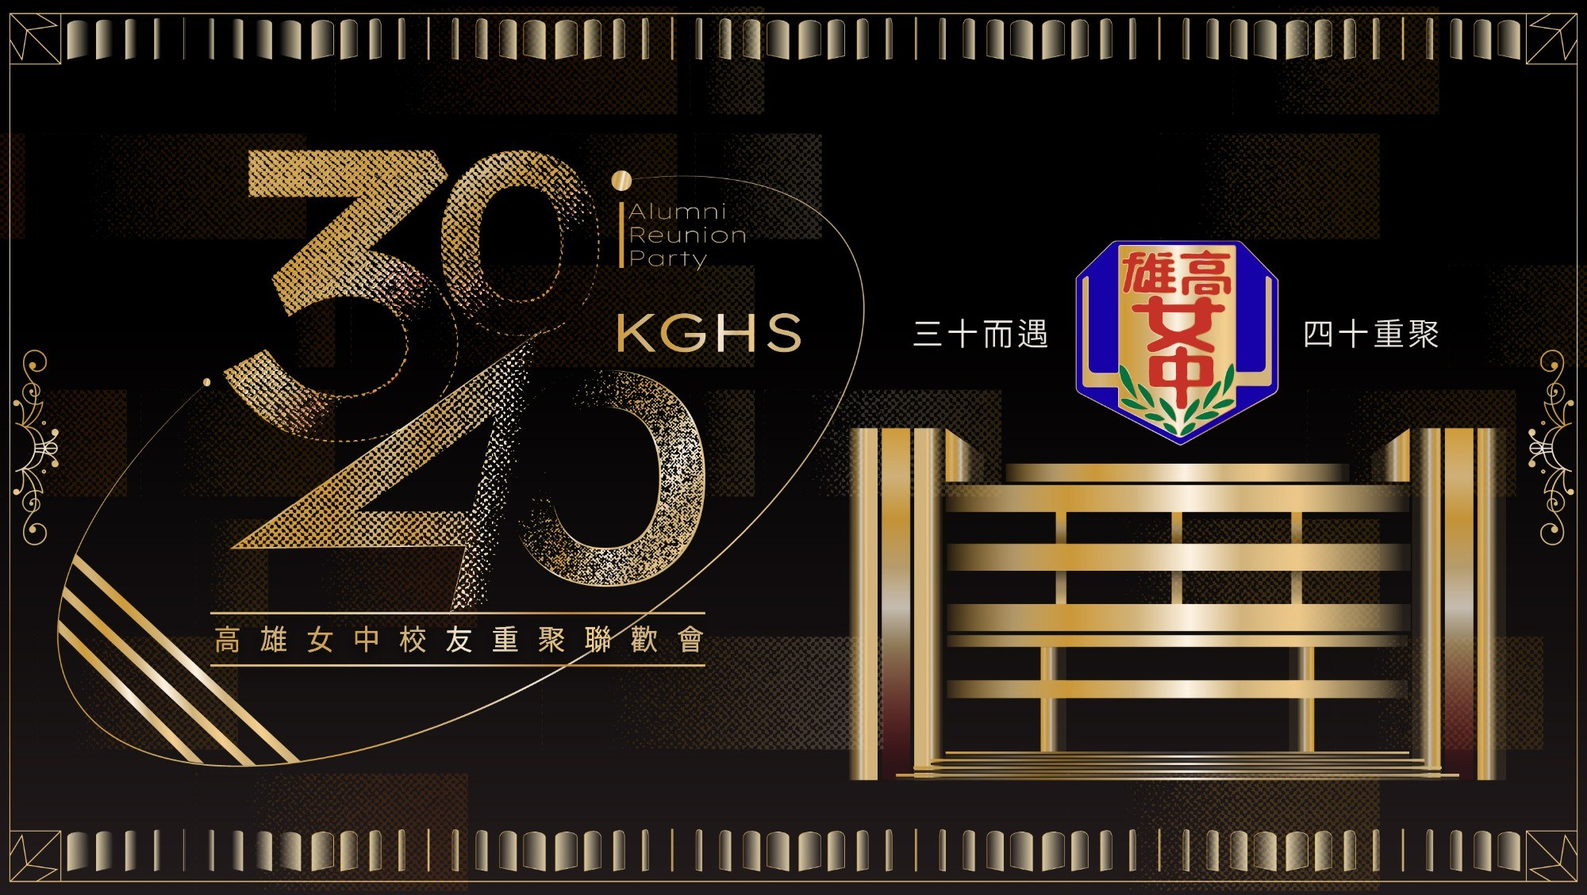
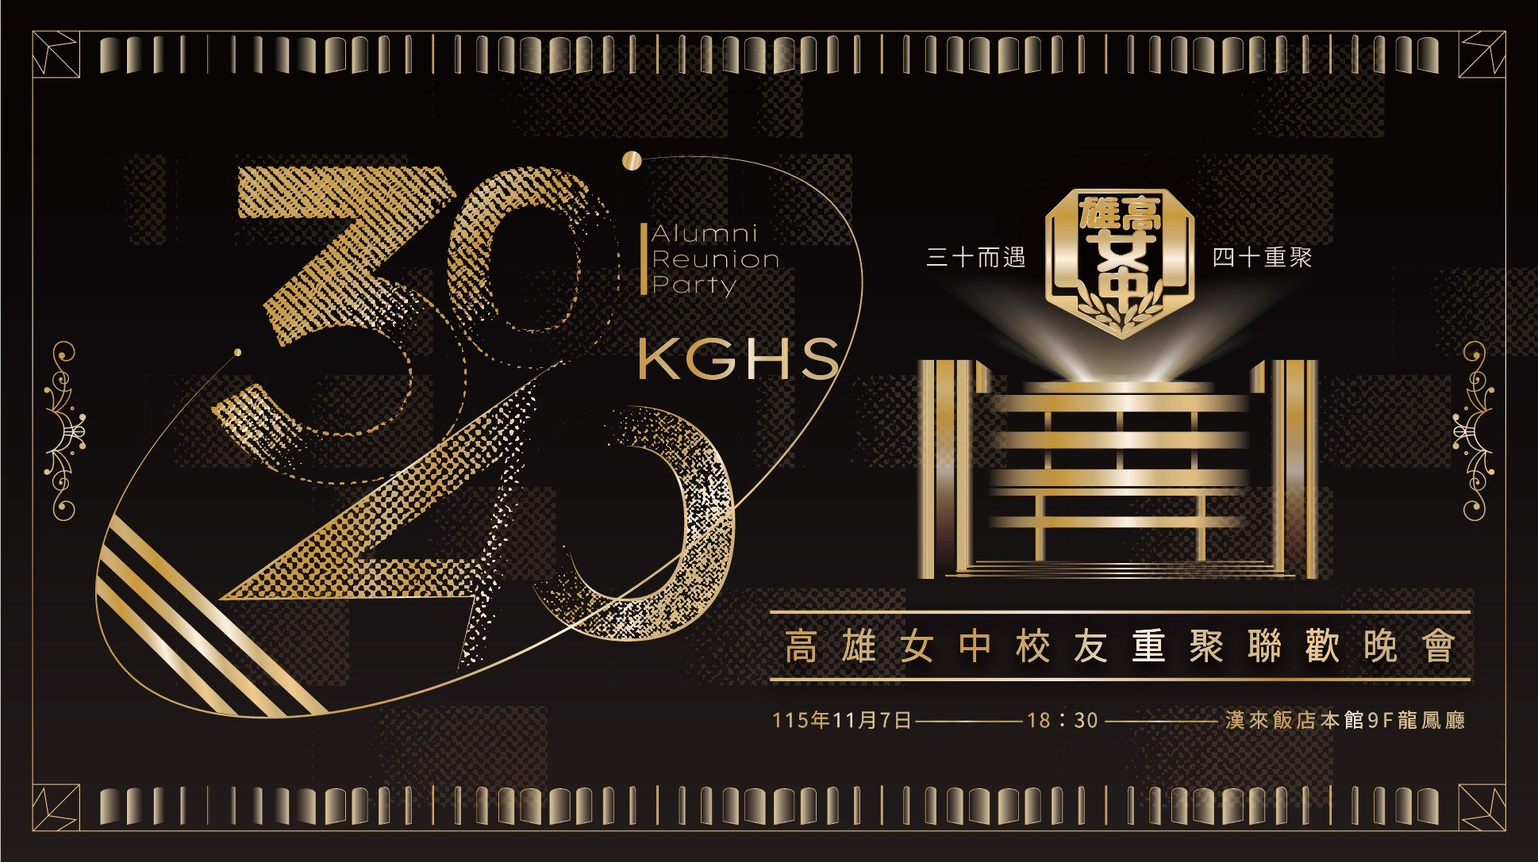
封面改為「2026高雄女中-星光晚宴回憶錄」；入場券改為晚宴邀請卡風格
- 入場券仿邀請卡：黑金琴鍵飾帶、校徽與「三十而遇／四十重聚」、3040 KGHS、
  高雄女中校友重聚聯歡晚會、115年11月7日 18:30 漢來飯店本館 9F 龍鳳廳
- 封面加校徽、副標「三十而遇　四十重聚」，五星獎列為獎項標題
- 開場與結尾劇情帶入三十而遇、四十重聚
- 投影牆主視覺換成含日期地點的新版

Claude-Session: https://claude.ai/code/session_01VouWjXPYsq8nRvDbBhYCw6

diff --git a/public/index.html b/public/index.html
@@ -3,10 +3,10 @@
 <head>
 <meta charset="utf-8">
 <meta name="viewport" content="width=device-width, initial-scale=1, viewport-fit=cover">
-<title>雄女祕境集章</title>
+<title>2026高雄女中-星光晚宴回憶錄</title>
 <link rel="preconnect" href="https://fonts.googleapis.com">
 <link rel="preconnect" href="https://fonts.gstatic.com" crossorigin>
-<link href="https://fonts.googleapis.com/css2?family=Noto+Serif+TC:wght@600;900&family=Noto+Sans+TC:wght@400;500;700&family=Gaegu:wght@400;700&family=Huninn&display=swap" rel="stylesheet">
+<link href="https://fonts.googleapis.com/css2?family=Noto+Serif+TC:wght@600;900&family=Noto+Sans+TC:wght@400;500;700&family=Gaegu:wght@400;700&family=Huninn&family=Josefin+Sans:wght@300;400&family=Great+Vibes&display=swap" rel="stylesheet">
 <style>
 :root{
   /* 頒獎典禮：節目單象牙紙、絲絨紅、香檳金、劇院黑 */
@@ -459,6 +459,8 @@ body.storymode .sound{background:#2A231E;color:#F3EADB;border-color:#3A302A}
 #cover.pre .cv-content{opacity:0;transform:scale(.96);transition:none}
 .cv-content{transition-delay:.5s}
 #cover.opening .cv-content{opacity:0;transform:scale(1.08);transition-delay:0s}
+/* 封面校徽 */
+.cv-logo{width:clamp(56px,16vw,78px);height:auto;filter:drop-shadow(0 4px 14px rgba(233,207,143,.35))}
 .cv-year{font-family:var(--serif);font-weight:600;font-size:.98rem;letter-spacing:.42em;color:#D9BD7E;margin:0;padding-left:.42em}
 .cv-crest{position:relative;width:min(92vw,380px);padding:4px 0}
 .cv-laurel{position:absolute;top:50%;width:clamp(34px,11vw,54px);height:auto;transform:translateY(-50%);opacity:.95}
@@ -471,6 +473,7 @@ body.storymode .sound{background:#2A231E;color:#F3EADB;border-color:#3A302A}
 .cv-rule{width:120px;height:1px;background:linear-gradient(90deg,transparent,#D9BD7E,transparent)}
 .cv-awards{margin:0;font-family:var(--serif);font-weight:600;font-size:.95rem;line-height:1.9;color:#C9B48A;max-width:330px}
 .cv-awards span{white-space:nowrap}
+.cv-aw-h{display:block;font-weight:900;color:#E9CF8F;letter-spacing:.5em;padding-left:.5em;margin-bottom:2px}
 .cv-date{margin:0;font-size:.9rem;color:#A39279;letter-spacing:.06em}
 .cv-enter{position:relative;margin-top:min(1.6vh,12px);border:0;cursor:pointer;font-family:var(--serif);font-weight:900;font-size:1.45rem;letter-spacing:.4em;padding:18px 36px 18px calc(36px + .4em);color:#2A1E10;
   background:linear-gradient(180deg,#F6E3AE,#D2AC60 55%,#A9843E);border-radius:6px;
@@ -546,22 +549,22 @@ body.busy{overflow:hidden}
       <div class="cv-curtain l"></div><div class="cv-curtain r"></div>
       <div class="cv-valance"></div><div class="cv-fringe"></div>
       <div class="cv-content">
-        <p class="cv-year" id="cvYear">2026 雄女校友回娘家</p>
-        <div class="cv-crest"><svg class="cv-laurel l" viewBox="0 0 60 140" aria-hidden="true"><g fill="none" stroke="#C9A158" stroke-width="2.2" stroke-linecap="round"><path d="M46 136C18 112 10 70 30 8"/></g><g fill="#C9A158"><ellipse cx="30" cy="16" rx="4.2" ry="10" transform="rotate(10 30 16)"/><ellipse cx="22" cy="30" rx="4.2" ry="10" transform="rotate(-30 22 30)"/><ellipse cx="36" cy="32" rx="4.2" ry="10" transform="rotate(40 36 32)"/><ellipse cx="17" cy="48" rx="4.2" ry="10" transform="rotate(-38 17 48)"/><ellipse cx="31" cy="52" rx="4.2" ry="10" transform="rotate(38 31 52)"/><ellipse cx="15" cy="68" rx="4.2" ry="10" transform="rotate(-42 15 68)"/><ellipse cx="29" cy="72" rx="4.2" ry="10" transform="rotate(34 29 72)"/><ellipse cx="17" cy="88" rx="4.2" ry="10" transform="rotate(-46 17 88)"/><ellipse cx="30" cy="92" rx="4.2" ry="10" transform="rotate(30 30 92)"/><ellipse cx="22" cy="108" rx="4.2" ry="10" transform="rotate(-52 22 108)"/><ellipse cx="35" cy="110" rx="4.2" ry="10" transform="rotate(24 35 110)"/><ellipse cx="31" cy="124" rx="4.2" ry="10" transform="rotate(-60 31 124)"/></g></svg><svg class="cv-laurel r" viewBox="0 0 60 140" aria-hidden="true"><g fill="none" stroke="#C9A158" stroke-width="2.2" stroke-linecap="round"><path d="M46 136C18 112 10 70 30 8"/></g><g fill="#C9A158"><ellipse cx="30" cy="16" rx="4.2" ry="10" transform="rotate(10 30 16)"/><ellipse cx="22" cy="30" rx="4.2" ry="10" transform="rotate(-30 22 30)"/><ellipse cx="36" cy="32" rx="4.2" ry="10" transform="rotate(40 36 32)"/><ellipse cx="17" cy="48" rx="4.2" ry="10" transform="rotate(-38 17 48)"/><ellipse cx="31" cy="52" rx="4.2" ry="10" transform="rotate(38 31 52)"/><ellipse cx="15" cy="68" rx="4.2" ry="10" transform="rotate(-42 15 68)"/><ellipse cx="29" cy="72" rx="4.2" ry="10" transform="rotate(34 29 72)"/><ellipse cx="17" cy="88" rx="4.2" ry="10" transform="rotate(-46 17 88)"/><ellipse cx="30" cy="92" rx="4.2" ry="10" transform="rotate(30 30 92)"/><ellipse cx="22" cy="108" rx="4.2" ry="10" transform="rotate(-52 22 108)"/><ellipse cx="35" cy="110" rx="4.2" ry="10" transform="rotate(24 35 110)"/><ellipse cx="31" cy="124" rx="4.2" ry="10" transform="rotate(-60 31 124)"/></g></svg><h1 class="cv-title">雄女<br>祕境集章</h1></div>
-        <p class="cv-sub">五星獎頒獎典禮</p>
+        <img class="cv-logo" src="assets/brand/logo-gold.png" alt="高雄女中"><p class="cv-year" id="cvYear">2026 高雄女中</p>
+        <div class="cv-crest"><svg class="cv-laurel l" viewBox="0 0 60 140" aria-hidden="true"><g fill="none" stroke="#C9A158" stroke-width="2.2" stroke-linecap="round"><path d="M46 136C18 112 10 70 30 8"/></g><g fill="#C9A158"><ellipse cx="30" cy="16" rx="4.2" ry="10" transform="rotate(10 30 16)"/><ellipse cx="22" cy="30" rx="4.2" ry="10" transform="rotate(-30 22 30)"/><ellipse cx="36" cy="32" rx="4.2" ry="10" transform="rotate(40 36 32)"/><ellipse cx="17" cy="48" rx="4.2" ry="10" transform="rotate(-38 17 48)"/><ellipse cx="31" cy="52" rx="4.2" ry="10" transform="rotate(38 31 52)"/><ellipse cx="15" cy="68" rx="4.2" ry="10" transform="rotate(-42 15 68)"/><ellipse cx="29" cy="72" rx="4.2" ry="10" transform="rotate(34 29 72)"/><ellipse cx="17" cy="88" rx="4.2" ry="10" transform="rotate(-46 17 88)"/><ellipse cx="30" cy="92" rx="4.2" ry="10" transform="rotate(30 30 92)"/><ellipse cx="22" cy="108" rx="4.2" ry="10" transform="rotate(-52 22 108)"/><ellipse cx="35" cy="110" rx="4.2" ry="10" transform="rotate(24 35 110)"/><ellipse cx="31" cy="124" rx="4.2" ry="10" transform="rotate(-60 31 124)"/></g></svg><svg class="cv-laurel r" viewBox="0 0 60 140" aria-hidden="true"><g fill="none" stroke="#C9A158" stroke-width="2.2" stroke-linecap="round"><path d="M46 136C18 112 10 70 30 8"/></g><g fill="#C9A158"><ellipse cx="30" cy="16" rx="4.2" ry="10" transform="rotate(10 30 16)"/><ellipse cx="22" cy="30" rx="4.2" ry="10" transform="rotate(-30 22 30)"/><ellipse cx="36" cy="32" rx="4.2" ry="10" transform="rotate(40 36 32)"/><ellipse cx="17" cy="48" rx="4.2" ry="10" transform="rotate(-38 17 48)"/><ellipse cx="31" cy="52" rx="4.2" ry="10" transform="rotate(38 31 52)"/><ellipse cx="15" cy="68" rx="4.2" ry="10" transform="rotate(-42 15 68)"/><ellipse cx="29" cy="72" rx="4.2" ry="10" transform="rotate(34 29 72)"/><ellipse cx="17" cy="88" rx="4.2" ry="10" transform="rotate(-46 17 88)"/><ellipse cx="30" cy="92" rx="4.2" ry="10" transform="rotate(30 30 92)"/><ellipse cx="22" cy="108" rx="4.2" ry="10" transform="rotate(-52 22 108)"/><ellipse cx="35" cy="110" rx="4.2" ry="10" transform="rotate(24 35 110)"/><ellipse cx="31" cy="124" rx="4.2" ry="10" transform="rotate(-60 31 124)"/></g></svg><h1 class="cv-title">星光晚宴<br>回憶錄</h1></div>
+        <p class="cv-sub">三十而遇　四十重聚</p>
         <div class="cv-rule"></div>
         <p class="cv-awards" id="cvAwards"></p>
         <p class="cv-date" id="cvDate"></p>
         <button class="cv-enter" data-act="enter">入場</button>
-        <p class="cv-hint">開啟聲音，典禮更有臨場感</p>
+        <p class="cv-hint">開啟聲音，星光晚宴更有臨場感</p>
       </div>
     </div>
   </section>
 
   <section id="join" class="view" hidden>
     <div class="cover">
-      <p class="hello">2026 雄女校友回娘家</p>
-      <h1>雄女<br>祕境集章</h1>
+      <p class="hello">2026 高雄女中</p>
+      <h1>星光晚宴<br>回憶錄</h1>
       <p class="lede">今晚，妳是「五星獎」的入圍女星。五顆星藏在校園五個角落，找到它、拍一張照、留一句得獎感言，就摘下一顆星。摘齊五星，就能領到典禮入場券。</p>
       <div class="joincard">
         <label class="field"><span>怎麼稱呼妳？</span><input type="text" id="jName" maxlength="12" autocomplete="nickname" placeholder="例如：小美"></label>
@@ -589,7 +592,7 @@ body.busy{overflow:hidden}
 
 
   <section id="invite" class="view" hidden>
-    <div class="bar"><button class="btn soft small" data-act="home">返回</button><h2>典禮入場券</h2></div>
+    <div class="bar"><button class="btn soft small" data-act="home">返回</button><h2>晚宴入場券</h2></div>
     <img id="inviteImg" alt="校友會頒獎典禮入場券">
     <p class="tiny center">用手指長按圖片，就可以存到手機相簿。</p>
   </section>
@@ -782,7 +785,7 @@ document.querySelectorAll('[data-ic]').forEach(el=>el.innerHTML=ic(el.dataset.ic
 
 /* ===================== 活動設定（之後改這裡就好） ===================== */
 const CONFIG = {
-  eventName: '雄女校友回娘家',
+  eventName: '高雄女中',
   // award 是這一站頒的獎項名稱（會出現在提名卡、獎章、相框底部和入場券）
   // 提示卡：riddle 是正面的謎題，hint 是翻到背面的提示；name 是找到之後才顯示的地點名稱；id 與 key 會寫進現場 QR Code 網址
   // presets 是「不想拍照」時可以選的照片（放在 assets/presets 資料夾）
@@ -801,7 +804,7 @@ const CONFIG = {
   // 開場與結尾劇情：一個 { } 是一頁；icon 用貼紙代號（trophy、reel、ticket、filmcam、gstar、rose、bell、camera…）；{name} 會換成玩家的稱呼
   story: {
     intro: [
-      { icon:'reel', text:'紅毯上閃光燈此起彼落，\n今晚的主角，\n是剛走進校門的妳。' },
+      { icon:'reel', text:'三十而遇，四十重聚。\n紅毯上閃光燈此起彼落，\n今晚的主角，是走進校門的妳。' },
       { icon:'mic', text:'記者：「{name}，歡迎回到雄女！\n聽說妳是今晚\n「五星獎」的入圍女星？」' },
       { icon:'filmcam', text:'「離開校園這麼多年，\n還記得當年最常待的地方嗎？\n校門口、圖書館、體育館……」' },
       { icon:'camera', text:'「今晚不用多說，\n請用照片告訴我們：\n回到那個角落，拍下現在的妳。」' },
@@ -813,7 +816,7 @@ const CONFIG = {
       { icon:'gstar', text:'校門、榕園、圖書館、\n活動中心、體育館，\n五顆星都被妳摘下了。' },
       { icon:'mic', text:'記者：「最後一個問題，\n回到這裡，\n是什麼感覺？」' },
       { icon:'filmcam', text:'妳拍下的照片和得獎感言，\n今晚會在典禮現場放映。' },
-      { icon:'rose', text:'{name}，\n歡迎回家。' }
+      { icon:'rose', text:'{name}，\n三十而遇，四十重聚，\n歡迎回家。' }
     ],
     endingEnd: '打開入場券'
   },
@@ -875,9 +878,11 @@ const CONFIG = {
     { name:'簡單乾淨', frame:'milk', filter:'none', items:[] }
   ],
   invite: {
-    date: '2026 年 12 月 19 日（六）晚上 6:00',
-    place: '（聚餐餐廳名稱）',
-    address: '（餐廳地址）',
+    title: '高雄女中校友重聚聯歡晚會',
+    date: '115年11月7日（六）',
+    time: '18:30',
+    place: '漢來飯店本館 9F 龍鳳廳',
+    address: '高雄市前金區成功一路 266 號',
     note: ''   // 入場券最下方的小字（留空就不顯示）
   }
 };
@@ -903,7 +908,7 @@ function rr(c,x,y,w,h,r){ r=Math.min(r,w/2,h/2); c.beginPath(); c.moveTo(x+r,y);
 function heartPath(c,x,y,s){ c.beginPath(); c.moveTo(x,y+s*.9); c.bezierCurveTo(x-s*1.25,y+s*.05,x-s*.8,y-s*.95,x,y-s*.35); c.bezierCurveTo(x+s*.8,y-s*.95,x+s*1.25,y+s*.05,x,y+s*.9); c.closePath(); }
 const SF='"Noto Serif TC","Noto Serif CJK TC","Songti TC","PMingLiU",serif';
 const NF='"Noto Sans TC","PingFang TC","Microsoft JhengHei",sans-serif';
-const fontsReady=(document.fonts ? Promise.all([document.fonts.load(`400 60px "Huninn"`), document.fonts.load(`700 60px "Gaegu"`), document.fonts.load(`600 60px "Noto Serif TC"`), document.fonts.load(`900 60px "Noto Serif TC"`), document.fonts.load(`500 60px "Noto Sans TC"`)]).catch(()=>{}) : Promise.resolve());
+const fontsReady=(document.fonts ? Promise.all([document.fonts.load(`400 60px "Huninn"`), document.fonts.load(`700 60px "Gaegu"`), document.fonts.load(`600 60px "Noto Serif TC"`), document.fonts.load(`900 60px "Noto Serif TC"`), document.fonts.load(`500 60px "Noto Sans TC"`), document.fonts.load(`400 60px "Josefin Sans"`), document.fonts.load(`300 60px "Josefin Sans"`), document.fonts.load(`400 60px "Great Vibes"`)]).catch(()=>{}) : Promise.resolve());
 if(/FBAN|FBAV|Instagram/i.test(navigator.userAgent||'')) $('#inapp').hidden=false;
 
 /* 對話框 */
@@ -1204,10 +1209,9 @@ function boot(){
 /* ===================== 封面 ===================== */
 const COVER={ raf:null, parts:[], busy:false };
 function openCover(){
-  const yr=(CONFIG.invite.date.match(/\d{4}/)||[new Date().getFullYear()])[0];
-  $('#cvYear').textContent=`${yr} ${CONFIG.eventName}`;
-  $('#cvAwards').innerHTML=CONFIG.spots.filter(s=>s.award).map(s=>`<span>${esc(s.award)}</span>`).join('　');
-  $('#cvDate').textContent=CONFIG.invite.date ? `典禮　${CONFIG.invite.date}` : '';
+  $('#cvYear').textContent=`2026 ${CONFIG.eventName}`;
+  $('#cvAwards').innerHTML='<b class="cv-aw-h">五星獎</b>'+CONFIG.spots.filter(s=>s.award).map(s=>`<span>${esc(s.award)}</span>`).join('　');
+  $('#cvDate').textContent=CONFIG.invite.date ? `晚宴　${CONFIG.invite.date} ${CONFIG.invite.time||''}` : '';
   const cv=$('#cover'); cv.classList.remove('opening'); cv.classList.add('pre'); COVER.busy=false;
   show('cover');
   // 開場：布幕從中間拉開到兩側，再浮現標題
@@ -1278,7 +1282,7 @@ function renderHome(){
     <div class="stamps" aria-label="已摘 ${n} / ${spots.length} 顆星">${spots.map(s=>`<div class="slot ${S.done[s.id]?'on':''} ${justStamped===s.id?'thump':''}">${s.stamp}</div>`).join('')}</div>
     <section class="clues" aria-label="提示卡"><h2 class="clues-h">提示卡<span>點一下翻面</span></h2><div class="clue-row">${spots.map(clueHTML).join('')}</div></section>
     ${n===0 ? `<section class="howto"><h2>怎麼玩</h2><ol><li>翻開上面的提示卡，猜猜五個地點在校園哪裡</li><li>走到那裡，點下方的「${ic('scan')} 掃描 QR Code」，對準牆上的圖案</li><li>拍自己、拍合照，或當攝影師拍下懷念的風景，再留一句得獎感言，就摘下這一顆星</li></ol><button class="linkbtn" data-act="intro">再看一次開場故事</button></section>` : ''}
-    ${n===spots.length ? `<section class="unlock"><h2>五星獎全部到手</h2><p>典禮入場券準備好了，聚餐地點寫在裡面。</p><button class="btn white wide" data-act="invite">打開入場券</button><p class="center"><button class="linkbtn" style="color:#fff" data-act="ending">重看結尾故事</button></p></section>` : ''}
+    ${n===spots.length ? `<section class="unlock"><h2>五星獎全部到手</h2><p>星光晚宴的入場券準備好了，時間地點都寫在裡面。</p><button class="btn white wide" data-act="invite">打開入場券</button><p class="center"><button class="linkbtn" style="color:#fff" data-act="ending">重看結尾故事</button></p></section>` : ''}
     <section class="spots">${spots.map(spotHTML).join('')}</section>`;
   justStamped=null; syncBanner();
 }
@@ -2401,52 +2405,63 @@ function wrapText(c,text,x,y,maxW,lh){ let line=''; for(const ch of text){ const
 async function openInvite(){
   sfx.fanfare();
   show('invite'); $('#inviteImg').removeAttribute('src'); await fontsReady;
-  const p=S ? S.player : { name:'測試校友', cls:'45', code:'DEMO00' }, inv=CONFIG.invite, spots=CONFIG.spots;
+  const p=S ? S.player : { name:'大明星', cls:'45', code:'DEMO00' }, inv=CONFIG.invite, spots=CONFIG.spots;
   const c=document.createElement('canvas'), IW=1080, IH=1680; c.width=IW; c.height=IH;
-  const g=c.getContext('2d'), GOLD='#D9BD7E', GOLD2='#A9843E', IVORY='#F3EADB', MUTE='#9C8D78';
-  // 黑幕＋頂端聚光
-  g.fillStyle='#14100E'; g.fillRect(0,0,IW,IH);
-  const sp=g.createRadialGradient(IW/2,120,20,IW/2,260,760); sp.addColorStop(0,'rgba(217,189,126,.22)'); sp.addColorStop(1,'rgba(217,189,126,0)');
-  g.fillStyle=sp; g.fillRect(0,0,IW,IH);
-  // 金色雙框
-  g.strokeStyle=GOLD; g.lineWidth=4; g.strokeRect(40,40,IW-80,IH-80);
-  g.strokeStyle='rgba(217,189,126,.45)'; g.lineWidth=1.5; g.strokeRect(56,56,IW-112,IH-112);
+  const g=c.getContext('2d'), GOLD='#D9BD7E', IVORY='#F3EADB', DEC='"Josefin Sans",sans-serif', SCR='"Great Vibes",cursive';
+  const gold=(x0,x1)=>{ const gr=g.createLinearGradient(x0,0,x1,0); [[0,'#8C6A30'],[.25,'#F3DFA8'],[.45,'#B88A3E'],[.6,'#FFF0C8'],[.8,'#A9843E'],[1,'#E9CF8F']].forEach(([o,col])=>gr.addColorStop(o,col)); return gr; };
+  const spaced=(t,x,y,sp)=>{ const ws=[...t].map(ch=>g.measureText(ch).width), tot=ws.reduce((a,b)=>a+b,0)+sp*(ws.length-1); let cx=x-tot/2; g.textAlign='left'; [...t].forEach((ch,k)=>{ g.fillText(ch,cx,y); cx+=ws[k]+sp; }); g.textAlign='center'; return tot; };
+  // 黑底＋若隱若現的方塊紋理（仿主視覺）
+  g.fillStyle='#0C0A09'; g.fillRect(0,0,IW,IH);
+  let seed=7; const rnd=()=>(seed=(seed*9301+49297)%233280)/233280;
+  for(let k=0;k<46;k++){ g.fillStyle=`rgba(217,189,126,${(.025+rnd()*.05).toFixed(3)})`; g.fillRect(rnd()*IW-60, rnd()*IH, 80+rnd()*240, 40+rnd()*120); }
+  // 外框與四角
+  g.strokeStyle='rgba(217,189,126,.75)'; g.lineWidth=2; g.strokeRect(28,28,IW-56,IH-56);
+  [[28,28,1,1],[IW-28,28,-1,1],[28,IH-28,1,-1],[IW-28,IH-28,-1,-1]].forEach(([x,y,sx,sy])=>{ g.save(); g.translate(x,y); g.scale(sx,sy); g.strokeStyle=GOLD; g.lineWidth=1.5; g.strokeRect(0,0,64,64); g.beginPath(); g.moveTo(0,0); g.lineTo(64,64); g.moveTo(64,0); g.lineTo(18,46); g.moveTo(0,64); g.lineTo(46,18); g.stroke(); g.restore(); });
+  // 上下金色琴鍵飾帶
+  const bars=(y0,h)=>{ const pat=[14,11,8,4,1.6,0,1.6,4,8,11,14]; let x=104; while(x<IW-104){ for(const w of pat){ if(x>IW-104) break; if(w){ g.fillStyle=gold(x,x+w); rr(g,x,y0,w,h,Math.min(3,w/2)); g.fill(); x+=w+6; } else x+=18; } x+=14; } };
+  bars(46,62); bars(IH-108,62);
+  g.fillStyle='rgba(217,189,126,.6)'; g.fillRect(100,122,IW-200,1.5); g.fillRect(100,IH-123,IW-200,1.5);
+  // 校徽＋聚光
+  const halo=g.createRadialGradient(IW/2,250,10,IW/2,250,300); halo.addColorStop(0,'rgba(255,240,200,.28)'); halo.addColorStop(1,'rgba(255,240,200,0)'); g.fillStyle=halo; g.fillRect(0,100,IW,420);
+  const logo=await loadImg('assets/brand/logo-gold.png'); if(logo) g.drawImage(logo, IW/2-88, 158, 176, 178);
   g.textAlign='center'; g.textBaseline='alphabetic';
-  g.fillStyle=GOLD; g.font=`500 34px ${NF}`; g.fillText(`${new Date().getFullYear()}　${CONFIG.eventName}`, IW/2, 170);
-  g.fillStyle=IVORY; g.font=`900 150px ${SF}`; g.fillText('五星獎', IW/2, 345);
-  g.fillStyle=GOLD; g.font=`600 58px ${SF}`; g.fillText('入　場　券', IW/2, 435);
-  g.fillStyle=GOLD2; ornament(g,'diamond',IW/2-215,416,12,-1); ornament(g,'diamond',IW/2+215,416,12,1);
+  g.fillStyle=IVORY; g.font=`400 40px ${NF}`; spaced('三十而遇',IW/2-250,262,10); spaced('四十重聚',IW/2+250,262,10);
+  // 3040 KGHS
+  g.font=`400 92px ${DEC}`; g.fillStyle=gold(IW/2-260,IW/2+260); spaced('3040 KGHS',IW/2,452,14);
+  g.font=`400 60px ${SCR}`; g.fillStyle=gold(IW/2-240,IW/2+240); g.fillText('Alumni Reunion Party', IW/2, 522);
+  // 晚會名稱（上下金線）
+  g.fillStyle=gold(110,IW-110); g.fillRect(110,556,IW-220,2.5); g.fillRect(110,646,IW-220,2.5);
+  g.font=`600 50px ${SF}`; g.fillStyle=gold(150,IW-150); spaced(inv.title||'高雄女中校友重聚聯歡晚會',IW/2,620,16);
   // 致詞
-  g.fillStyle=IVORY; g.font=`600 52px ${SF}`; g.fillText(`敬邀　${p.name}`, IW/2, 540);
-  g.fillStyle='#C9BBA5'; g.font=`400 34px ${NF}`;
-  g.fillText('五顆星，妳全都摘下了。', IW/2, 600);
-  g.fillText('歡迎回家，今晚的典禮為妳留了位子。', IW/2, 650);
-  // 底片條：五顆星的照片
-  const fy=705, fh=300; g.fillStyle='#050403'; g.fillRect(56,fy,IW-112,fh);
-  g.fillStyle='#2E2620'; for(let x=74;x<IW-80;x+=44){ rr(g,x,fy+14,24,18,4); g.fill(); rr(g,x,fy+fh-32,24,18,4); g.fill(); }
+  g.fillStyle=IVORY; g.font=`600 54px ${SF}`; g.fillText(`敬邀　${p.name}`, IW/2, 742);
+  g.fillStyle='#C9BBA5'; g.font=`400 32px ${NF}`;
+  g.fillText('五星獎，妳全都摘下了。', IW/2, 798);
+  g.fillText('今晚的星光晚宴，為妳留了位子。', IW/2, 846);
+  // 五顆星的照片（金框）
   const imgs=await Promise.all(spots.map(s=>S && S.done[s.id] ? loadImg(S.done[s.id].thumb||S.done[s.id].img) : null));
-  const n=spots.length, tw=166, th=212, gap=(IW-112-n*tw)/(n+1), ty=fy+44;
-  imgs.forEach((im,i)=>{
-    const x=56+gap+i*(tw+gap);
-    g.save(); g.beginPath(); g.rect(x,ty,tw,th); g.clip(); g.fillStyle='#2A231E'; g.fillRect(x,ty,tw,th);
-    if(im){ const k=Math.max(tw/im.width,th/im.height), dw=im.width*k, dh=im.height*k; g.drawImage(im,x+(tw-dw)/2,ty+(th-dh)/2,dw,dh); }
-    else { g.fillStyle=GOLD; g.font=`600 70px ${SF}`; g.textAlign='center'; g.textBaseline='middle'; g.fillText(spots[i].stamp,x+tw/2,ty+th/2); g.textBaseline='alphabetic'; }
+  const n=spots.length, tw=160, th=204, gap=(IW-160-n*tw)/(n-1), ty=892;
+  imgs.forEach((im,k)=>{
+    const x=80+k*(tw+gap);
+    g.save(); g.beginPath(); g.rect(x,ty,tw,th); g.clip(); g.fillStyle='#1E1916'; g.fillRect(x,ty,tw,th);
+    if(im){ const sc=Math.max(tw/im.width,th/im.height), dw=im.width*sc, dh=im.height*sc; g.drawImage(im,x+(tw-dw)/2,ty+(th-dh)/2,dw,dh); }
+    else { g.fillStyle=GOLD; g.font=`600 68px ${SF}`; g.textBaseline='middle'; g.fillText(spots[k].stamp,x+tw/2,ty+th/2); g.textBaseline='alphabetic'; }
     g.restore();
+    g.strokeStyle=gold(x,x+tw); g.lineWidth=3; g.strokeRect(x-5,ty-5,tw+10,th+10);
+    g.fillStyle=GOLD; g.font=`500 24px ${NF}`; g.fillText(spots[k].award||'', x+tw/2, ty+th+42);
   });
-  // 典禮資訊
-  let y=1095; g.textAlign='left';
-  [['日期',inv.date],['地點',inv.place],['地址',inv.address],['座位',`第 ${p.cls} 屆校友席`]].forEach(([k,v])=>{
-    g.fillStyle=GOLD; g.font=`600 34px ${SF}`; g.fillText(k,130,y);
-    g.fillStyle=IVORY; g.font=`500 40px ${NF}`; y=wrapText(g,v,250,y,700,54)+16;
-  });
-  // 撕線＋存根
-  const by=Math.max(y+10, IH-300);
-  g.setLineDash([16,12]); g.strokeStyle='rgba(217,189,126,.6)'; g.lineWidth=3; g.beginPath(); g.moveTo(80,by); g.lineTo(IW-80,by); g.stroke(); g.setLineDash([]);
-  g.fillStyle='#F1EBE1'; [40,IW-40].forEach(x=>{ g.beginPath(); g.arc(x,by,26,0,Math.PI*2); g.fill(); });
-  const cy = inv.note ? by+140 : (by+IH-56)/2+30;
-  g.textAlign='center'; g.fillStyle=GOLD; g.font=`600 84px ${SF}`; g.fillText('敬 候 光 臨', IW/2, cy);
-  g.fillStyle=GOLD2; ornament(g,'diamond',IW/2-250,cy-28,12,-1); ornament(g,'diamond',IW/2+250,cy-28,12,1);
-  if(inv.note){ g.fillStyle='#C9BBA5'; g.font=`400 32px ${NF}`; g.fillText(inv.note, IW/2, IH-72); }
+  // 日期 —— 時間 —— 地點（仿邀請卡）
+  const row=(y,parts,size)=>{ g.font=`500 ${size}px ${NF}`; const ws=parts.map(t=>g.measureText(t).width), line=parts.length>1?70:0, tot=ws.reduce((a,b)=>a+b,0)+line*(parts.length-1)+28*(parts.length-1); let x=IW/2-tot/2; g.textAlign='left';
+    parts.forEach((t,k)=>{ g.fillStyle=IVORY; g.fillText(t,x,y); x+=ws[k]; if(k<parts.length-1){ g.fillStyle=gold(x,x+line+28); g.fillRect(x+14,y-size*.36,line,2); x+=line+28; } }); g.textAlign='center'; };
+  row(1206,[inv.date,inv.time].filter(Boolean),42);
+  g.fillStyle=gold(IW/2-260,IW/2+260); g.font=`600 52px ${SF}`; spaced(inv.place||'',IW/2,1282,6);
+  g.fillStyle='#A39279'; g.font=`400 30px ${NF}`; if(inv.address) g.fillText(inv.address, IW/2, 1334);
+  g.fillStyle=IVORY; g.font=`500 34px ${NF}`; g.fillText(`第 ${p.cls} 屆校友席`, IW/2, 1392);
+  // 撕線＋敬候光臨
+  const by=1436;
+  g.setLineDash([14,10]); g.strokeStyle='rgba(217,189,126,.55)'; g.lineWidth=2.5; g.beginPath(); g.moveTo(80,by); g.lineTo(IW-80,by); g.stroke(); g.setLineDash([]);
+  g.fillStyle='#F1EBE1'; [28,IW-28].forEach(x=>{ g.beginPath(); g.arc(x,by,22,0,Math.PI*2); g.fill(); });
+  g.fillStyle=gold(IW/2-240,IW/2+240); g.font=`600 76px ${SF}`; spaced('敬候光臨',IW/2,inv.note?1520:1534,40);
+  if(inv.note){ g.fillStyle='#C9BBA5'; g.font=`400 28px ${NF}`; g.fillText(inv.note, IW/2, 1570); }
   $('#inviteImg').src=c.toDataURL('image/jpeg',.92);
 }
 
